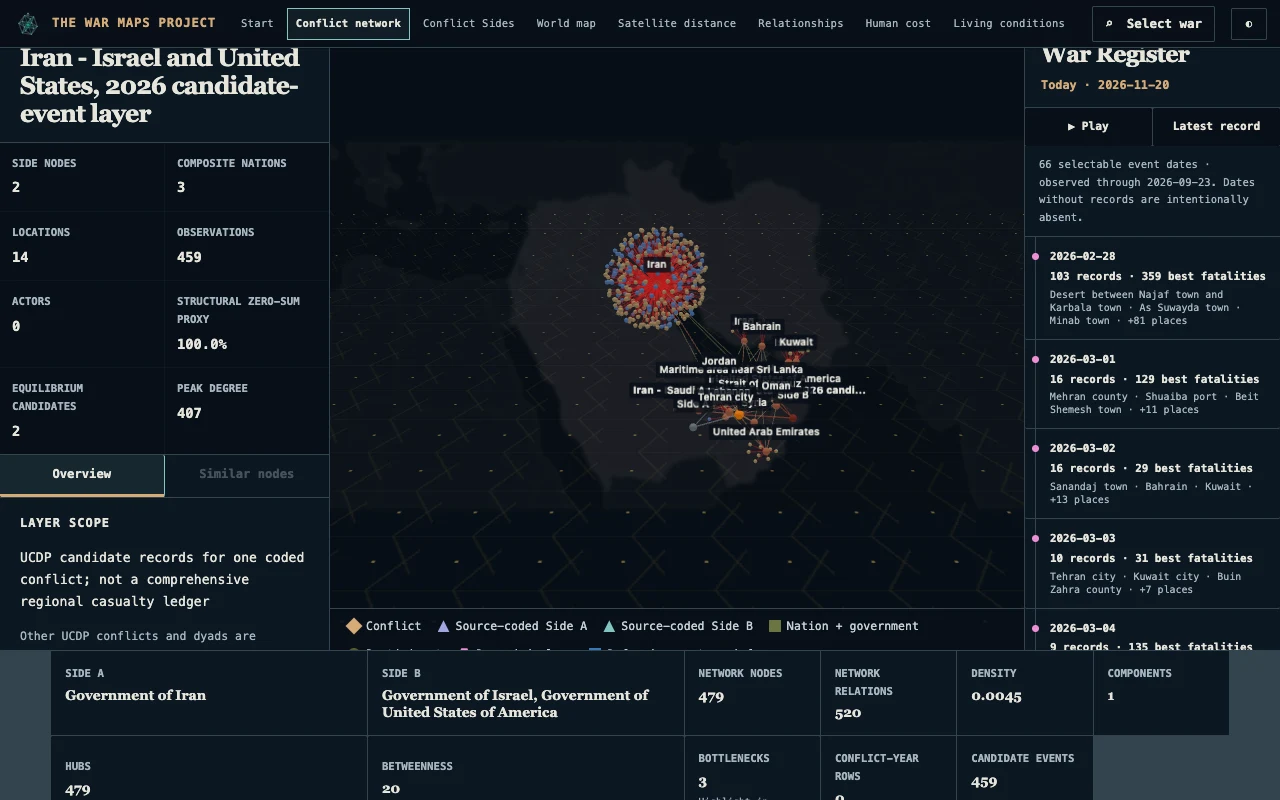
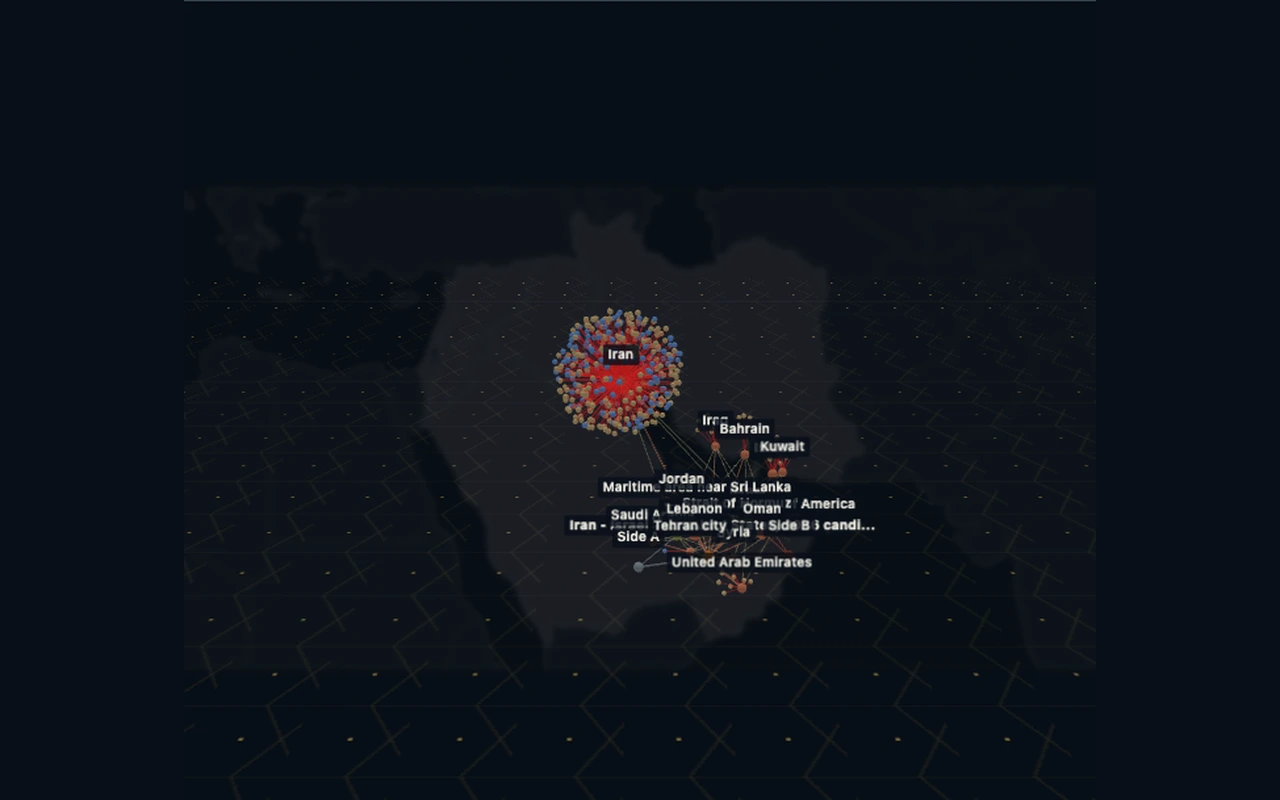
Focus homepage carousel previews on the visualizations

diff --git a/outputs/web/index.html b/outputs/web/index.html
@@ -19,7 +19,7 @@
 <nav aria-label="Primary navigation"></nav>
 <button aria-label="Toggle day and night mode" class="icon-button" id="theme-toggle" title="Toggle day and night mode" type="button">◐</button>
 </header><div aria-describedby="human-cost-clock-tip" aria-label="Global human cost clock" class="human-cost-clock" role="img" tabindex="0"><span class="human-cost-clock-label">GLOBAL HUMAN COST / 2026</span><span aria-hidden="true" class="human-cost-clock-marks"></span><output aria-label="Estimated count since 1 January 2026" class="human-cost-clock-count">0</output><span class="human-cost-clock-tip" id="human-cost-clock-tip" role="tooltip">One mark per elapsed second. The clock flashes at the evenly distributed rate represented by the source estimate of 140,009 deaths across the loaded 2026 observation period.</span></div>
-<main class="landing-main" id="main-content"><section aria-label="Explore War Maps" aria-roledescription="carousel" class="view-carousel" id="view-carousel"><div class="view-slides"><article aria-label="1 of 4: Conflict map" aria-roledescription="slide" class="view-slide" id="view-slide-0"><a aria-label="Open Conflict map" class="view-screen" href="map.html"><img alt="Conflict map screen from War Maps" height="800" loading="eager" src="assets/screens/conflict-map.webp" width="1280"/></a><div class="view-copy"><p class="eyebrow">Explore War Maps / 01</p><h2>Conflict map</h2><p>Locate recorded conflicts and events across places and years. Explore the geography, then open the underlying records.</p><a href="map.html">Open Conflict map →</a></div></article><article aria-label="2 of 4: Conflict Network" aria-roledescription="slide" class="view-slide" hidden="" id="view-slide-1"><a aria-label="Open Conflict Network" class="view-screen" href="network.html"><img alt="Conflict Network screen from War Maps" height="800" loading="lazy" src="assets/screens/conflict-network.webp" width="1280"/></a><div class="view-copy"><p class="eyebrow">Explore War Maps / 02</p><h2>Conflict Network</h2><p>Explore the participants, places, and events connected within a conflict. Follow the structure behind the map.</p><a href="network.html">Open Conflict Network →</a></div></article><article aria-label="3 of 4: Conflict Sides" aria-roledescription="slide" class="view-slide" hidden="" id="view-slide-2"><a aria-label="Open Conflict Sides" class="view-screen" href="conflict-sides.html"><img alt="Conflict Sides screen from War Maps" height="800" loading="lazy" src="assets/screens/conflict-sides.webp" width="1280"/></a><div class="view-copy"><p class="eyebrow">Explore War Maps / 03</p><h2>Conflict Sides</h2><p>One dot represents one death. Compare the losses of each side alongside civilian and unknown deaths, by conflict and year.</p><a href="conflict-sides.html">Open Conflict Sides →</a></div></article><article aria-label="4 of 4: Satellite estimated distance" aria-roledescription="slide" class="view-slide" hidden="" id="view-slide-3"><a aria-label="Open Satellite estimated distance" class="view-screen" href="satellites.html"><img alt="Satellite estimated distance screen from War Maps" height="800" loading="lazy" src="assets/screens/satellites.webp" width="1280"/></a><div class="view-copy"><p class="eyebrow">Explore War Maps / 04</p><h2>Satellite estimated distance</h2><p>Rotate a 3D Earth and explore the estimated distance between ICEYE-X36 and Kosmos 2612 across a 30-day retrospective orbital model.</p><a href="satellites.html">Open Satellite estimated distance →</a></div></article></div><div class="view-carousel-controls"><button aria-label="Previous view" data-view-prev="" type="button">←</button><div aria-label="Choose a view" class="view-carousel-tabs" role="group"><button aria-controls="view-slide-0" aria-pressed="true" data-view-index="0" type="button">Conflict map</button><button aria-controls="view-slide-1" aria-pressed="false" data-view-index="1" type="button">Conflict Network</button><button aria-controls="view-slide-2" aria-pressed="false" data-view-index="2" type="button">Conflict Sides</button><button aria-controls="view-slide-3" aria-pressed="false" data-view-index="3" type="button">Satellite estimated distance</button></div><button aria-label="Next view" data-view-next="" type="button">→</button><span aria-live="polite" class="sr-only" data-view-status=""></span></div></section>
+<main class="landing-main" id="main-content"><section aria-label="Explore War Maps" aria-roledescription="carousel" class="view-carousel" id="view-carousel"><div class="view-slides"><article aria-label="1 of 4: Conflict map" aria-roledescription="slide" class="view-slide" id="view-slide-0"><a aria-label="Open Conflict map" class="view-screen" href="map.html"><img alt="Conflict map visualization from War Maps" height="800" loading="eager" src="assets/screens/conflict-map.webp" width="1280"/></a><div class="view-copy"><p class="eyebrow">Explore War Maps / 01</p><h2>Conflict map</h2><p>Locate recorded conflicts and events across places and years. Explore the geography, then open the underlying records.</p><a href="map.html">Open Conflict map →</a></div></article><article aria-label="2 of 4: Conflict Network" aria-roledescription="slide" class="view-slide" hidden="" id="view-slide-1"><a aria-label="Open Conflict Network" class="view-screen" href="network.html"><img alt="Conflict Network visualization from War Maps" height="800" loading="lazy" src="assets/screens/conflict-network.webp" width="1280"/></a><div class="view-copy"><p class="eyebrow">Explore War Maps / 02</p><h2>Conflict Network</h2><p>Explore the participants, places, and events connected within a conflict. Follow the structure behind the map.</p><a href="network.html">Open Conflict Network →</a></div></article><article aria-label="3 of 4: Conflict Sides" aria-roledescription="slide" class="view-slide" hidden="" id="view-slide-2"><a aria-label="Open Conflict Sides" class="view-screen" href="conflict-sides.html"><img alt="Conflict Sides visualization from War Maps" height="800" loading="lazy" src="assets/screens/conflict-sides.webp" width="1280"/></a><div class="view-copy"><p class="eyebrow">Explore War Maps / 03</p><h2>Conflict Sides</h2><p>One dot represents one death. Compare the losses of each side alongside civilian and unknown deaths, by conflict and year.</p><a href="conflict-sides.html">Open Conflict Sides →</a></div></article><article aria-label="4 of 4: Satellite estimated distance" aria-roledescription="slide" class="view-slide" hidden="" id="view-slide-3"><a aria-label="Open Satellite estimated distance" class="view-screen" href="satellites.html"><img alt="Satellite estimated distance visualization from War Maps" height="800" loading="lazy" src="assets/screens/satellites.webp" width="1280"/></a><div class="view-copy"><p class="eyebrow">Explore War Maps / 04</p><h2>Satellite estimated distance</h2><p>Rotate a 3D Earth and explore the estimated distance between ICEYE-X36 and Kosmos 2612 across a 30-day retrospective orbital model.</p><a href="satellites.html">Open Satellite estimated distance →</a></div></article></div><div class="view-carousel-controls"><button aria-label="Previous view" data-view-prev="" type="button">←</button><div aria-label="Choose a view" class="view-carousel-tabs" role="group"><button aria-controls="view-slide-0" aria-pressed="true" data-view-index="0" type="button">Conflict map</button><button aria-controls="view-slide-1" aria-pressed="false" data-view-index="1" type="button">Conflict Network</button><button aria-controls="view-slide-2" aria-pressed="false" data-view-index="2" type="button">Conflict Sides</button><button aria-controls="view-slide-3" aria-pressed="false" data-view-index="3" type="button">Satellite estimated distance</button></div><button aria-label="Next view" data-view-next="" type="button">→</button><span aria-live="polite" class="sr-only" data-view-status=""></span></div></section>
 <section class="landing-hero">
 <div>
 <p class="eyebrow">Public evidence · connected without taking sides</p>

diff --git a/web/index.html b/web/index.html
@@ -19,7 +19,7 @@
 <nav aria-label="Primary navigation"></nav>
 <button aria-label="Toggle day and night mode" class="icon-button" id="theme-toggle" title="Toggle day and night mode" type="button">◐</button>
 </header><div aria-describedby="human-cost-clock-tip" aria-label="Global human cost clock" class="human-cost-clock" role="img" tabindex="0"><span class="human-cost-clock-label">GLOBAL HUMAN COST / 2026</span><span aria-hidden="true" class="human-cost-clock-marks"></span><output aria-label="Estimated count since 1 January 2026" class="human-cost-clock-count">0</output><span class="human-cost-clock-tip" id="human-cost-clock-tip" role="tooltip">One mark per elapsed second. The clock flashes at the evenly distributed rate represented by the source estimate of 140,009 deaths across the loaded 2026 observation period.</span></div>
-<main class="landing-main" id="main-content"><section aria-label="Explore War Maps" aria-roledescription="carousel" class="view-carousel" id="view-carousel"><div class="view-slides"><article aria-label="1 of 4: Conflict map" aria-roledescription="slide" class="view-slide" id="view-slide-0"><a aria-label="Open Conflict map" class="view-screen" href="map.html"><img alt="Conflict map screen from War Maps" height="800" loading="eager" src="assets/screens/conflict-map.webp" width="1280"/></a><div class="view-copy"><p class="eyebrow">Explore War Maps / 01</p><h2>Conflict map</h2><p>Locate recorded conflicts and events across places and years. Explore the geography, then open the underlying records.</p><a href="map.html">Open Conflict map →</a></div></article><article aria-label="2 of 4: Conflict Network" aria-roledescription="slide" class="view-slide" hidden="" id="view-slide-1"><a aria-label="Open Conflict Network" class="view-screen" href="network.html"><img alt="Conflict Network screen from War Maps" height="800" loading="lazy" src="assets/screens/conflict-network.webp" width="1280"/></a><div class="view-copy"><p class="eyebrow">Explore War Maps / 02</p><h2>Conflict Network</h2><p>Explore the participants, places, and events connected within a conflict. Follow the structure behind the map.</p><a href="network.html">Open Conflict Network →</a></div></article><article aria-label="3 of 4: Conflict Sides" aria-roledescription="slide" class="view-slide" hidden="" id="view-slide-2"><a aria-label="Open Conflict Sides" class="view-screen" href="conflict-sides.html"><img alt="Conflict Sides screen from War Maps" height="800" loading="lazy" src="assets/screens/conflict-sides.webp" width="1280"/></a><div class="view-copy"><p class="eyebrow">Explore War Maps / 03</p><h2>Conflict Sides</h2><p>One dot represents one death. Compare the losses of each side alongside civilian and unknown deaths, by conflict and year.</p><a href="conflict-sides.html">Open Conflict Sides →</a></div></article><article aria-label="4 of 4: Satellite estimated distance" aria-roledescription="slide" class="view-slide" hidden="" id="view-slide-3"><a aria-label="Open Satellite estimated distance" class="view-screen" href="satellites.html"><img alt="Satellite estimated distance screen from War Maps" height="800" loading="lazy" src="assets/screens/satellites.webp" width="1280"/></a><div class="view-copy"><p class="eyebrow">Explore War Maps / 04</p><h2>Satellite estimated distance</h2><p>Rotate a 3D Earth and explore the estimated distance between ICEYE-X36 and Kosmos 2612 across a 30-day retrospective orbital model.</p><a href="satellites.html">Open Satellite estimated distance →</a></div></article></div><div class="view-carousel-controls"><button aria-label="Previous view" data-view-prev="" type="button">←</button><div aria-label="Choose a view" class="view-carousel-tabs" role="group"><button aria-controls="view-slide-0" aria-pressed="true" data-view-index="0" type="button">Conflict map</button><button aria-controls="view-slide-1" aria-pressed="false" data-view-index="1" type="button">Conflict Network</button><button aria-controls="view-slide-2" aria-pressed="false" data-view-index="2" type="button">Conflict Sides</button><button aria-controls="view-slide-3" aria-pressed="false" data-view-index="3" type="button">Satellite estimated distance</button></div><button aria-label="Next view" data-view-next="" type="button">→</button><span aria-live="polite" class="sr-only" data-view-status=""></span></div></section>
+<main class="landing-main" id="main-content"><section aria-label="Explore War Maps" aria-roledescription="carousel" class="view-carousel" id="view-carousel"><div class="view-slides"><article aria-label="1 of 4: Conflict map" aria-roledescription="slide" class="view-slide" id="view-slide-0"><a aria-label="Open Conflict map" class="view-screen" href="map.html"><img alt="Conflict map visualization from War Maps" height="800" loading="eager" src="assets/screens/conflict-map.webp" width="1280"/></a><div class="view-copy"><p class="eyebrow">Explore War Maps / 01</p><h2>Conflict map</h2><p>Locate recorded conflicts and events across places and years. Explore the geography, then open the underlying records.</p><a href="map.html">Open Conflict map →</a></div></article><article aria-label="2 of 4: Conflict Network" aria-roledescription="slide" class="view-slide" hidden="" id="view-slide-1"><a aria-label="Open Conflict Network" class="view-screen" href="network.html"><img alt="Conflict Network visualization from War Maps" height="800" loading="lazy" src="assets/screens/conflict-network.webp" width="1280"/></a><div class="view-copy"><p class="eyebrow">Explore War Maps / 02</p><h2>Conflict Network</h2><p>Explore the participants, places, and events connected within a conflict. Follow the structure behind the map.</p><a href="network.html">Open Conflict Network →</a></div></article><article aria-label="3 of 4: Conflict Sides" aria-roledescription="slide" class="view-slide" hidden="" id="view-slide-2"><a aria-label="Open Conflict Sides" class="view-screen" href="conflict-sides.html"><img alt="Conflict Sides visualization from War Maps" height="800" loading="lazy" src="assets/screens/conflict-sides.webp" width="1280"/></a><div class="view-copy"><p class="eyebrow">Explore War Maps / 03</p><h2>Conflict Sides</h2><p>One dot represents one death. Compare the losses of each side alongside civilian and unknown deaths, by conflict and year.</p><a href="conflict-sides.html">Open Conflict Sides →</a></div></article><article aria-label="4 of 4: Satellite estimated distance" aria-roledescription="slide" class="view-slide" hidden="" id="view-slide-3"><a aria-label="Open Satellite estimated distance" class="view-screen" href="satellites.html"><img alt="Satellite estimated distance visualization from War Maps" height="800" loading="lazy" src="assets/screens/satellites.webp" width="1280"/></a><div class="view-copy"><p class="eyebrow">Explore War Maps / 04</p><h2>Satellite estimated distance</h2><p>Rotate a 3D Earth and explore the estimated distance between ICEYE-X36 and Kosmos 2612 across a 30-day retrospective orbital model.</p><a href="satellites.html">Open Satellite estimated distance →</a></div></article></div><div class="view-carousel-controls"><button aria-label="Previous view" data-view-prev="" type="button">←</button><div aria-label="Choose a view" class="view-carousel-tabs" role="group"><button aria-controls="view-slide-0" aria-pressed="true" data-view-index="0" type="button">Conflict map</button><button aria-controls="view-slide-1" aria-pressed="false" data-view-index="1" type="button">Conflict Network</button><button aria-controls="view-slide-2" aria-pressed="false" data-view-index="2" type="button">Conflict Sides</button><button aria-controls="view-slide-3" aria-pressed="false" data-view-index="3" type="button">Satellite estimated distance</button></div><button aria-label="Next view" data-view-next="" type="button">→</button><span aria-live="polite" class="sr-only" data-view-status=""></span></div></section>
 <section class="landing-hero">
 <div>
 <p class="eyebrow">Public evidence · connected without taking sides</p>

diff --git a/src/capture_view_screens.py b/src/capture_view_screens.py
@@ -5,30 +5,50 @@ import argparse,asyncio,shutil
 from pathlib import Path
 from playwright.async_api import async_playwright
 ROOT=Path(__file__).resolve().parents[1]
-async def capture(base,executable=None):
+async def capture(base,executable=None,only=None):
     target=ROOT/'web/assets/screens';target.mkdir(parents=True,exist_ok=True)
     async with async_playwright() as p:
         browser=await p.chromium.launch(headless=True,**({'executable_path':executable} if executable else {}))
         page=await browser.new_page(viewport={'width':1280,'height':800},device_scale_factor=1)
         await page.add_init_script("localStorage.setItem('war-maps-theme','dark')")
-        views=[('conflict-map','map.html','#map'),('conflict-network','network.html','#network-canvas'),('conflict-sides','conflict-sides.html?conflict=1%3A13243','#stage'),('satellites','satellites.html','.orbit-layout')]
+        views=[('conflict-map','map.html','#map'),('conflict-network','network.html','#network-canvas'),('conflict-sides','conflict-sides.html?conflict=1%3A13243','#stage'),('satellites','satellites.html','#orbit-globe')]
         for name,url,selector in views:
+            if only and name not in only:continue
             await page.goto(base.rstrip('/')+'/'+url,wait_until='networkidle',timeout=90000)
             await page.locator(selector).wait_for()
             if name=='satellites':await page.wait_for_function('window.WAR_MAPS_ORBIT_VIEW')
             if name=='conflict-map':await page.wait_for_function("document.querySelector('#map')._fullLayout")
-            if name=='conflict-network':await page.wait_for_function("document.querySelector('#network-canvas').querySelector('svg,canvas')")
+            if name=='conflict-network':
+                await page.wait_for_function("document.querySelector('#network-canvas').querySelector('svg,canvas')")
+                await page.wait_for_timeout(2500)
+                await page.click('#network-fit')
+                await page.wait_for_timeout(1500)
+            # Hide fixed chrome so element captures cannot be covered by navigation.
+            await page.add_style_tag(content='.site-header,.human-cost-clock,.neutrality-footer,.modebar,.satellite-toolbar,.human-cost-map-summary,.orbit-help{visibility:hidden!important}')
             if name=='conflict-sides':
-                # Fit the complete SVG poster into the screen rather than crop its dots.
-                await page.locator('#dots').evaluate("e=>{e.style.width='auto';e.style.height='720px';e.style.maxWidth='100%'}")
-            await page.locator(selector).evaluate("e=>e.scrollIntoView({block:'start'})")
+                await page.select_option('#year','2026')
+                # Capture the side circle itself, preserving the actual SVG paths.
+                await page.locator('#dots').evaluate("""svg=>{
+                  const paths=[...svg.querySelectorAll('path[data-dot-count]')].filter(p=>Number(p.dataset.dotCount)>1&&['#484848','#ac2529'].includes(p.getAttribute('fill')));
+                  const boxes=paths.map(p=>p.getBBox()),x=Math.min(...boxes.map(b=>b.x)),y=Math.min(...boxes.map(b=>b.y)),right=Math.max(...boxes.map(b=>b.x+b.width)),bottom=Math.max(...boxes.map(b=>b.y+b.height));
+                  const clone=svg.cloneNode(false);clone.id='focal-preview';
+                  const width=right-x,height=bottom-y,pad=Math.max(width,height)*.045;
+                  clone.setAttribute('viewBox',`${x-pad} ${y-pad} ${width+pad*2} ${height+pad*2}`);
+                  clone.style.cssText='display:block;width:100%;height:760px;background:var(--paper)';
+                  for(const p of paths)clone.append(p.cloneNode(true));svg.parentElement.replaceChildren(clone);
+                }""")
+                selector='#focal-preview'
+            await page.locator(selector).scroll_into_view_if_needed()
             await page.wait_for_timeout(1000)
-            await page.screenshot(path=str(target/(name+'.png')))
-            from PIL import Image
-            with Image.open(target/(name+'.png')) as image:image.save(target/(name+'.webp'),quality=88)
+            await page.locator(selector).screenshot(path=str(target/(name+'.png')))
+            from PIL import Image,ImageOps
+            with Image.open(target/(name+'.png')) as image:
+                # Keep complete focal geometry rather than crop circles or orbital paths.
+                image=ImageOps.pad(image.convert('RGB'),(1280,800),color='#080f18',method=Image.Resampling.LANCZOS)
+                image.save(target/(name+'.webp'),quality=92)
             (target/(name+'.png')).unlink()
             print('Captured',name,flush=True)
         await browser.close()
     dest=ROOT/'outputs/web/assets/screens';shutil.copytree(target,dest,dirs_exist_ok=True)
 if __name__=='__main__':
-    parser=argparse.ArgumentParser();parser.add_argument('--base-url',default='http://127.0.0.1:8876/outputs/web');parser.add_argument('--chromium');args=parser.parse_args();asyncio.run(capture(args.base_url,args.chromium))
+    parser=argparse.ArgumentParser();parser.add_argument('--base-url',default='http://127.0.0.1:8876/outputs/web');parser.add_argument('--chromium');parser.add_argument('--only',nargs='+');args=parser.parse_args();asyncio.run(capture(args.base_url,args.chromium,args.only))

diff --git a/src/homepage_carousel.py b/src/homepage_carousel.py
@@ -19,7 +19,7 @@ def insert(soup):
         slide=soup.new_tag('article',attrs={'class':'view-slide','id':f'view-slide-{i}','aria-label':f'{i+1} of {len(SLIDES)}: {title}','aria-roledescription':'slide'})
         if i:slide['hidden']=''
         visual=soup.new_tag('a',href=url,attrs={'class':'view-screen','aria-label':f'Open {title}'})
-        visual.append(soup.new_tag('img',src='assets/screens/'+image,alt=title+' screen from War Maps',width='1280',height='800',loading='eager' if not i else 'lazy'))
+        visual.append(soup.new_tag('img',src='assets/screens/'+image,alt=title+' visualization from War Maps',width='1280',height='800',loading='eager' if not i else 'lazy'))
         slide.append(visual);copy=soup.new_tag('div',attrs={'class':'view-copy'})
         eyebrow=soup.new_tag('p',attrs={'class':'eyebrow'});eyebrow.string=f'Explore War Maps / 0{i+1}';copy.append(eyebrow)
         h=soup.new_tag('h2');h.string=title;copy.append(h)
